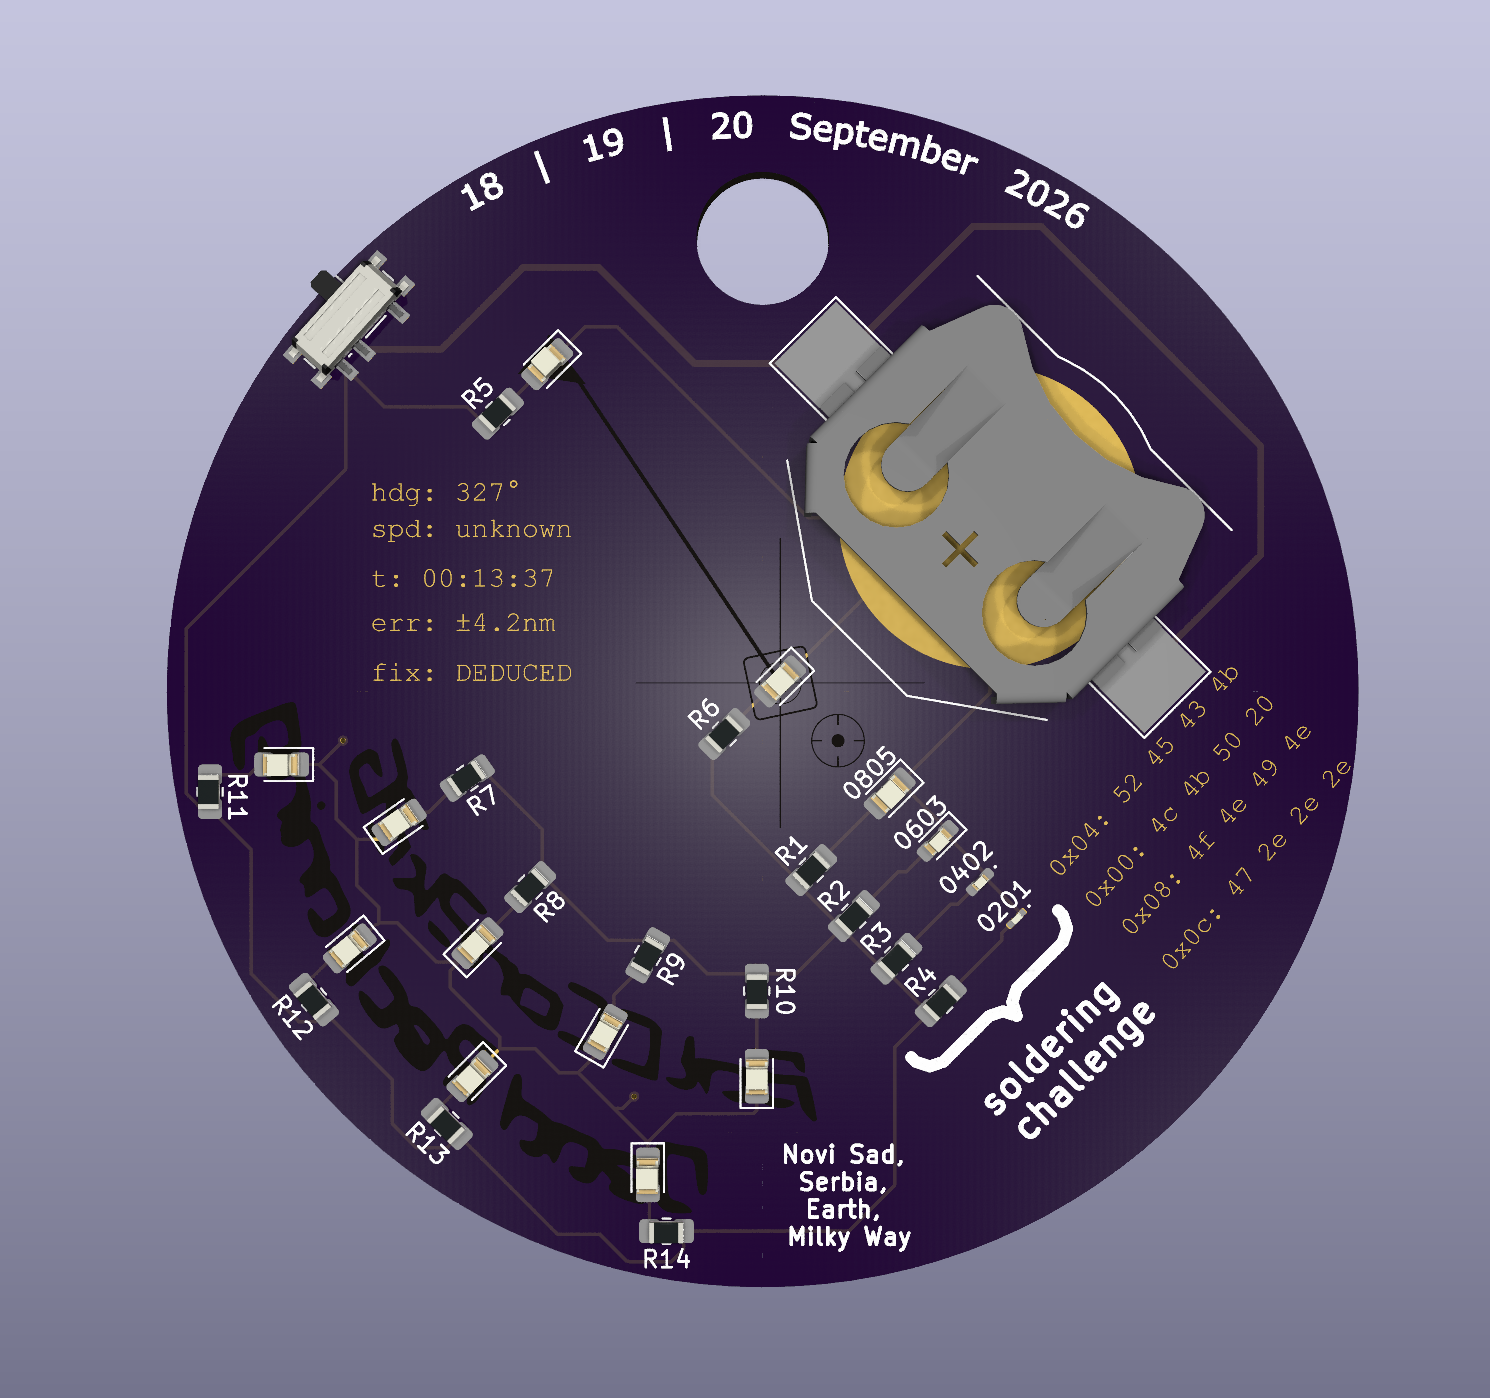
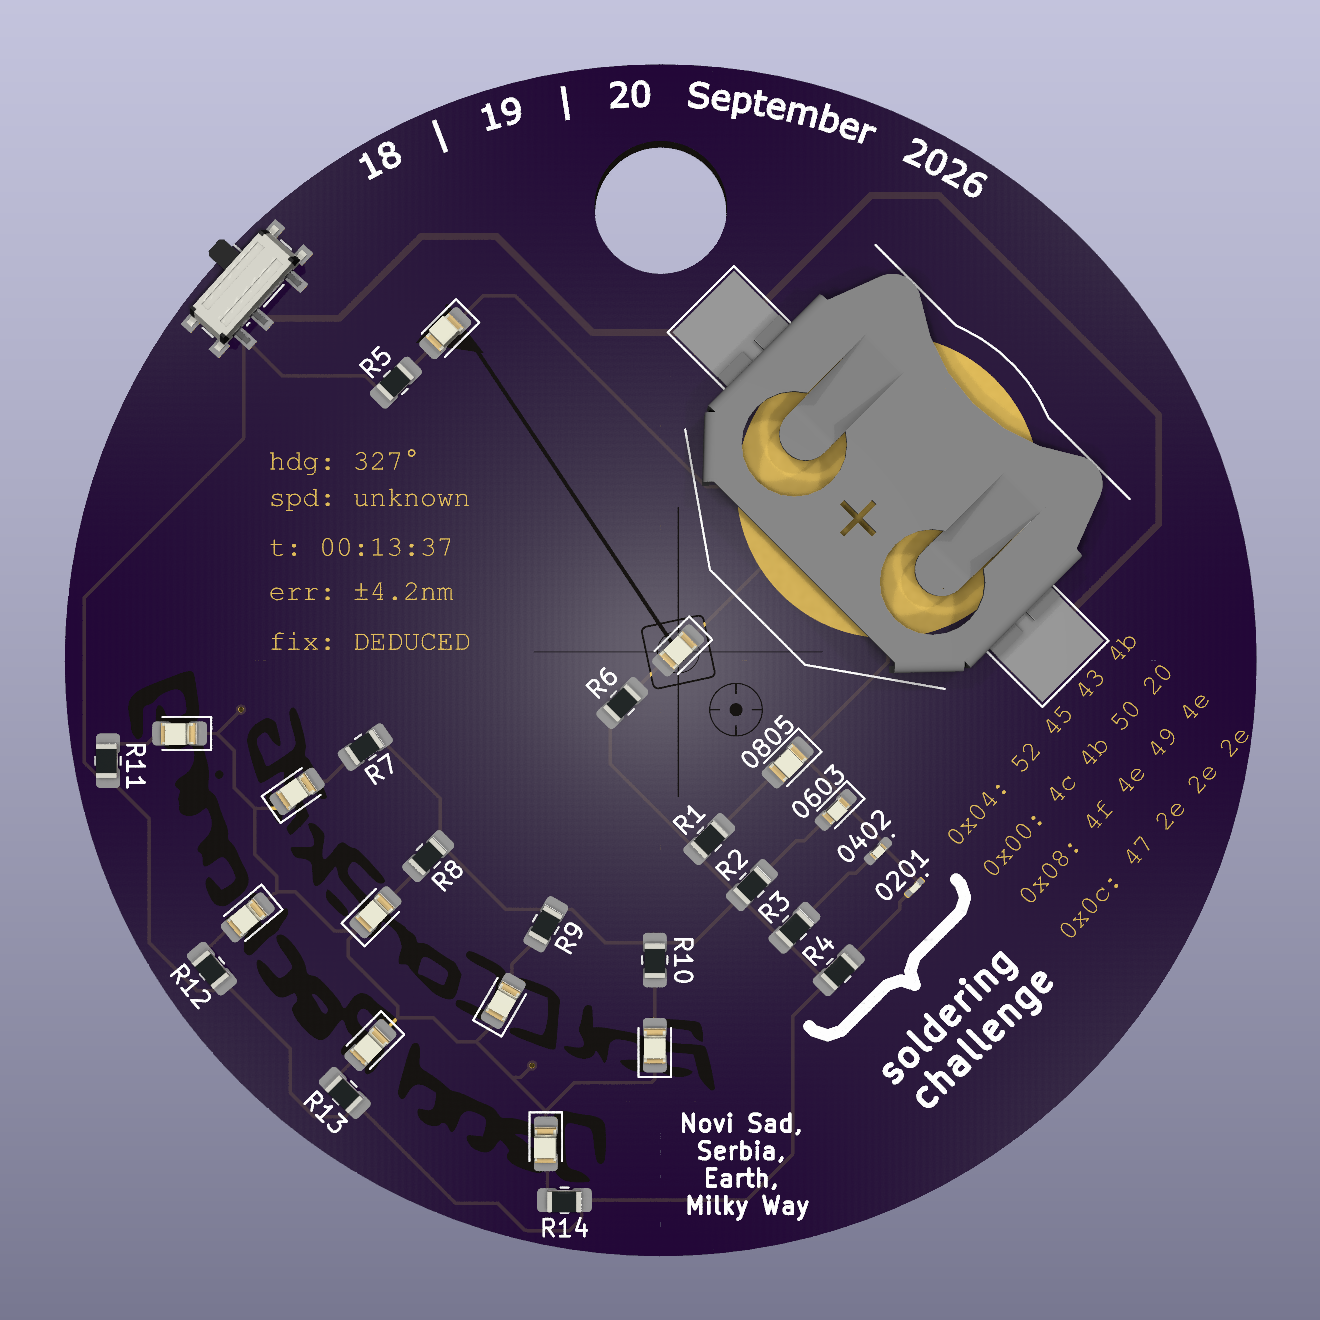
Crop board renders so front/back circles match in size
Both renders had the same 1192px PCB circle diameter but different
canvas padding, so they appeared mismatched side by side. Cropped
both to the same 1320x1320 square centered on the circle.

Claude-Session: https://claude.ai/code/session_019JfZuVz9e7K1gJXjECkgif

diff --git a/README.md b/README.md
@@ -12,12 +12,13 @@ Design assets for the BalCCon 2k26 PCB-style pin/badge.
 
 ### The board
 
-| Front (artwork side) | Back (component side) |
+The front carries the silkscreen artwork only — no components. Everything
+gets soldered to the back.
+
+| Front | Back  |
 | --- | --- |
 | ![Front of the PCB](photos/front-PCB-render.png) | ![Back of the PCB](photos/back-PCB-render.png) |
 
-The front carries the silkscreen artwork only — no components. Everything
-gets soldered to the back.
 
 ### What's in the kit
 
